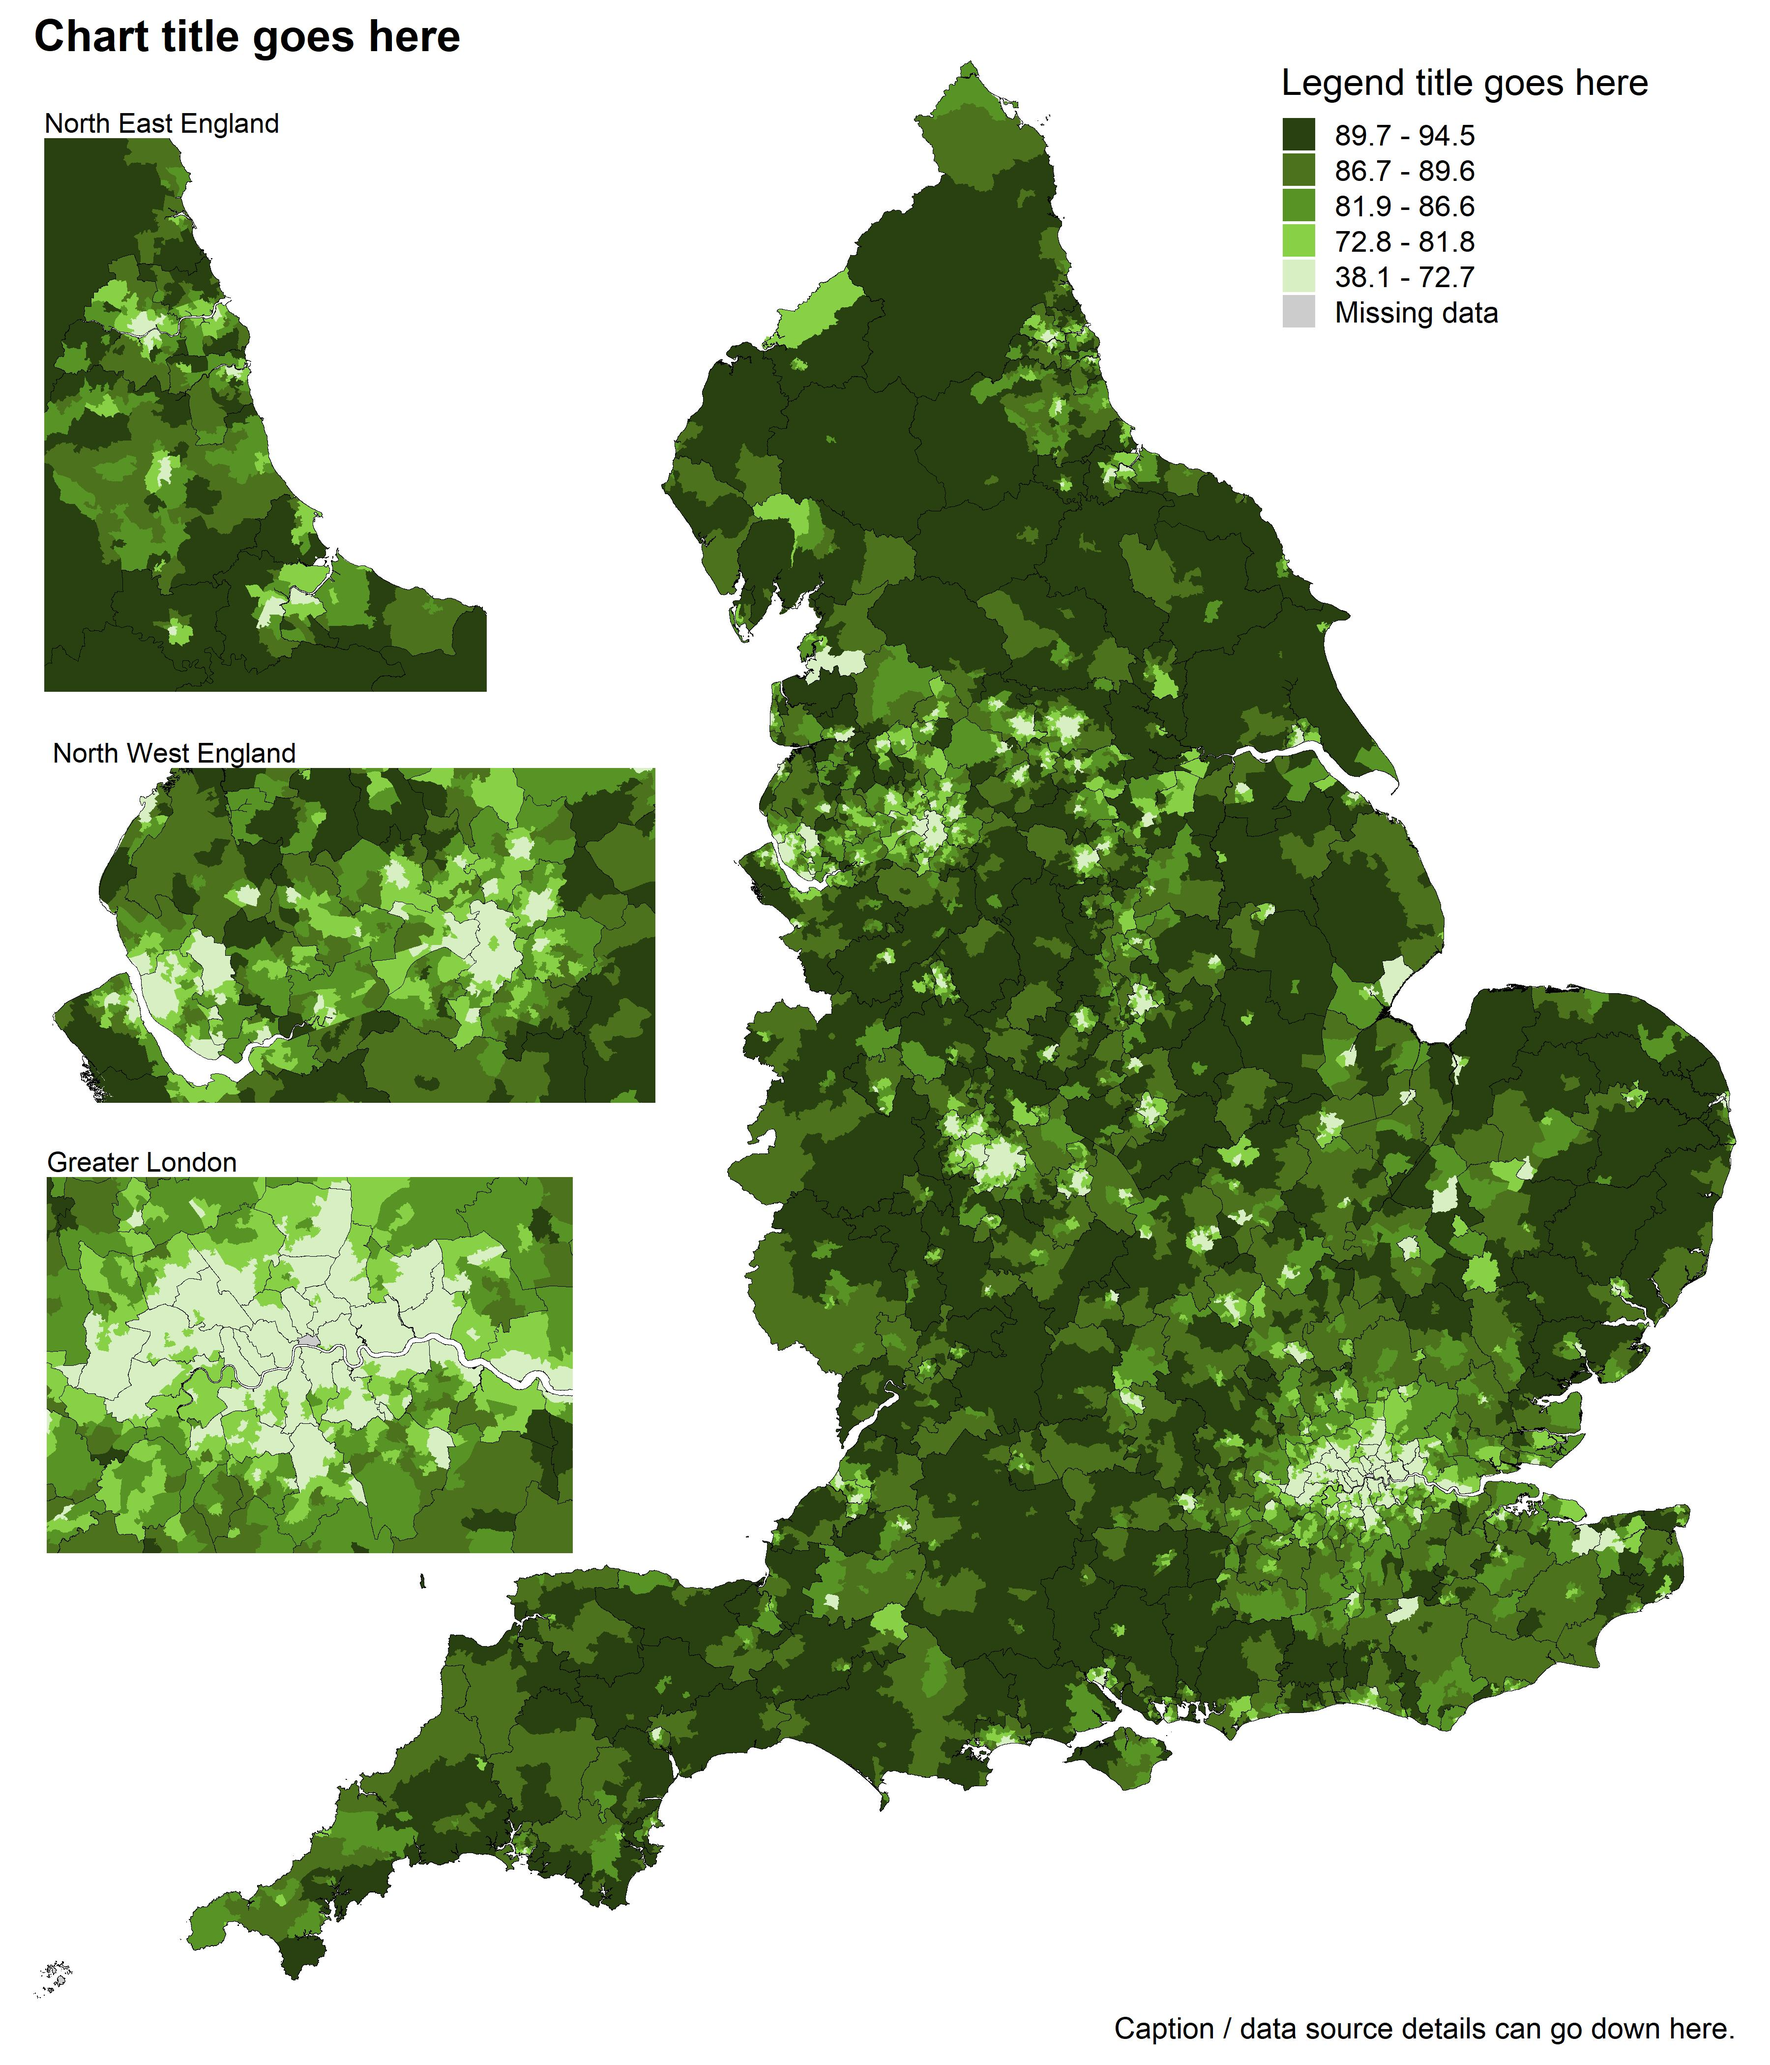
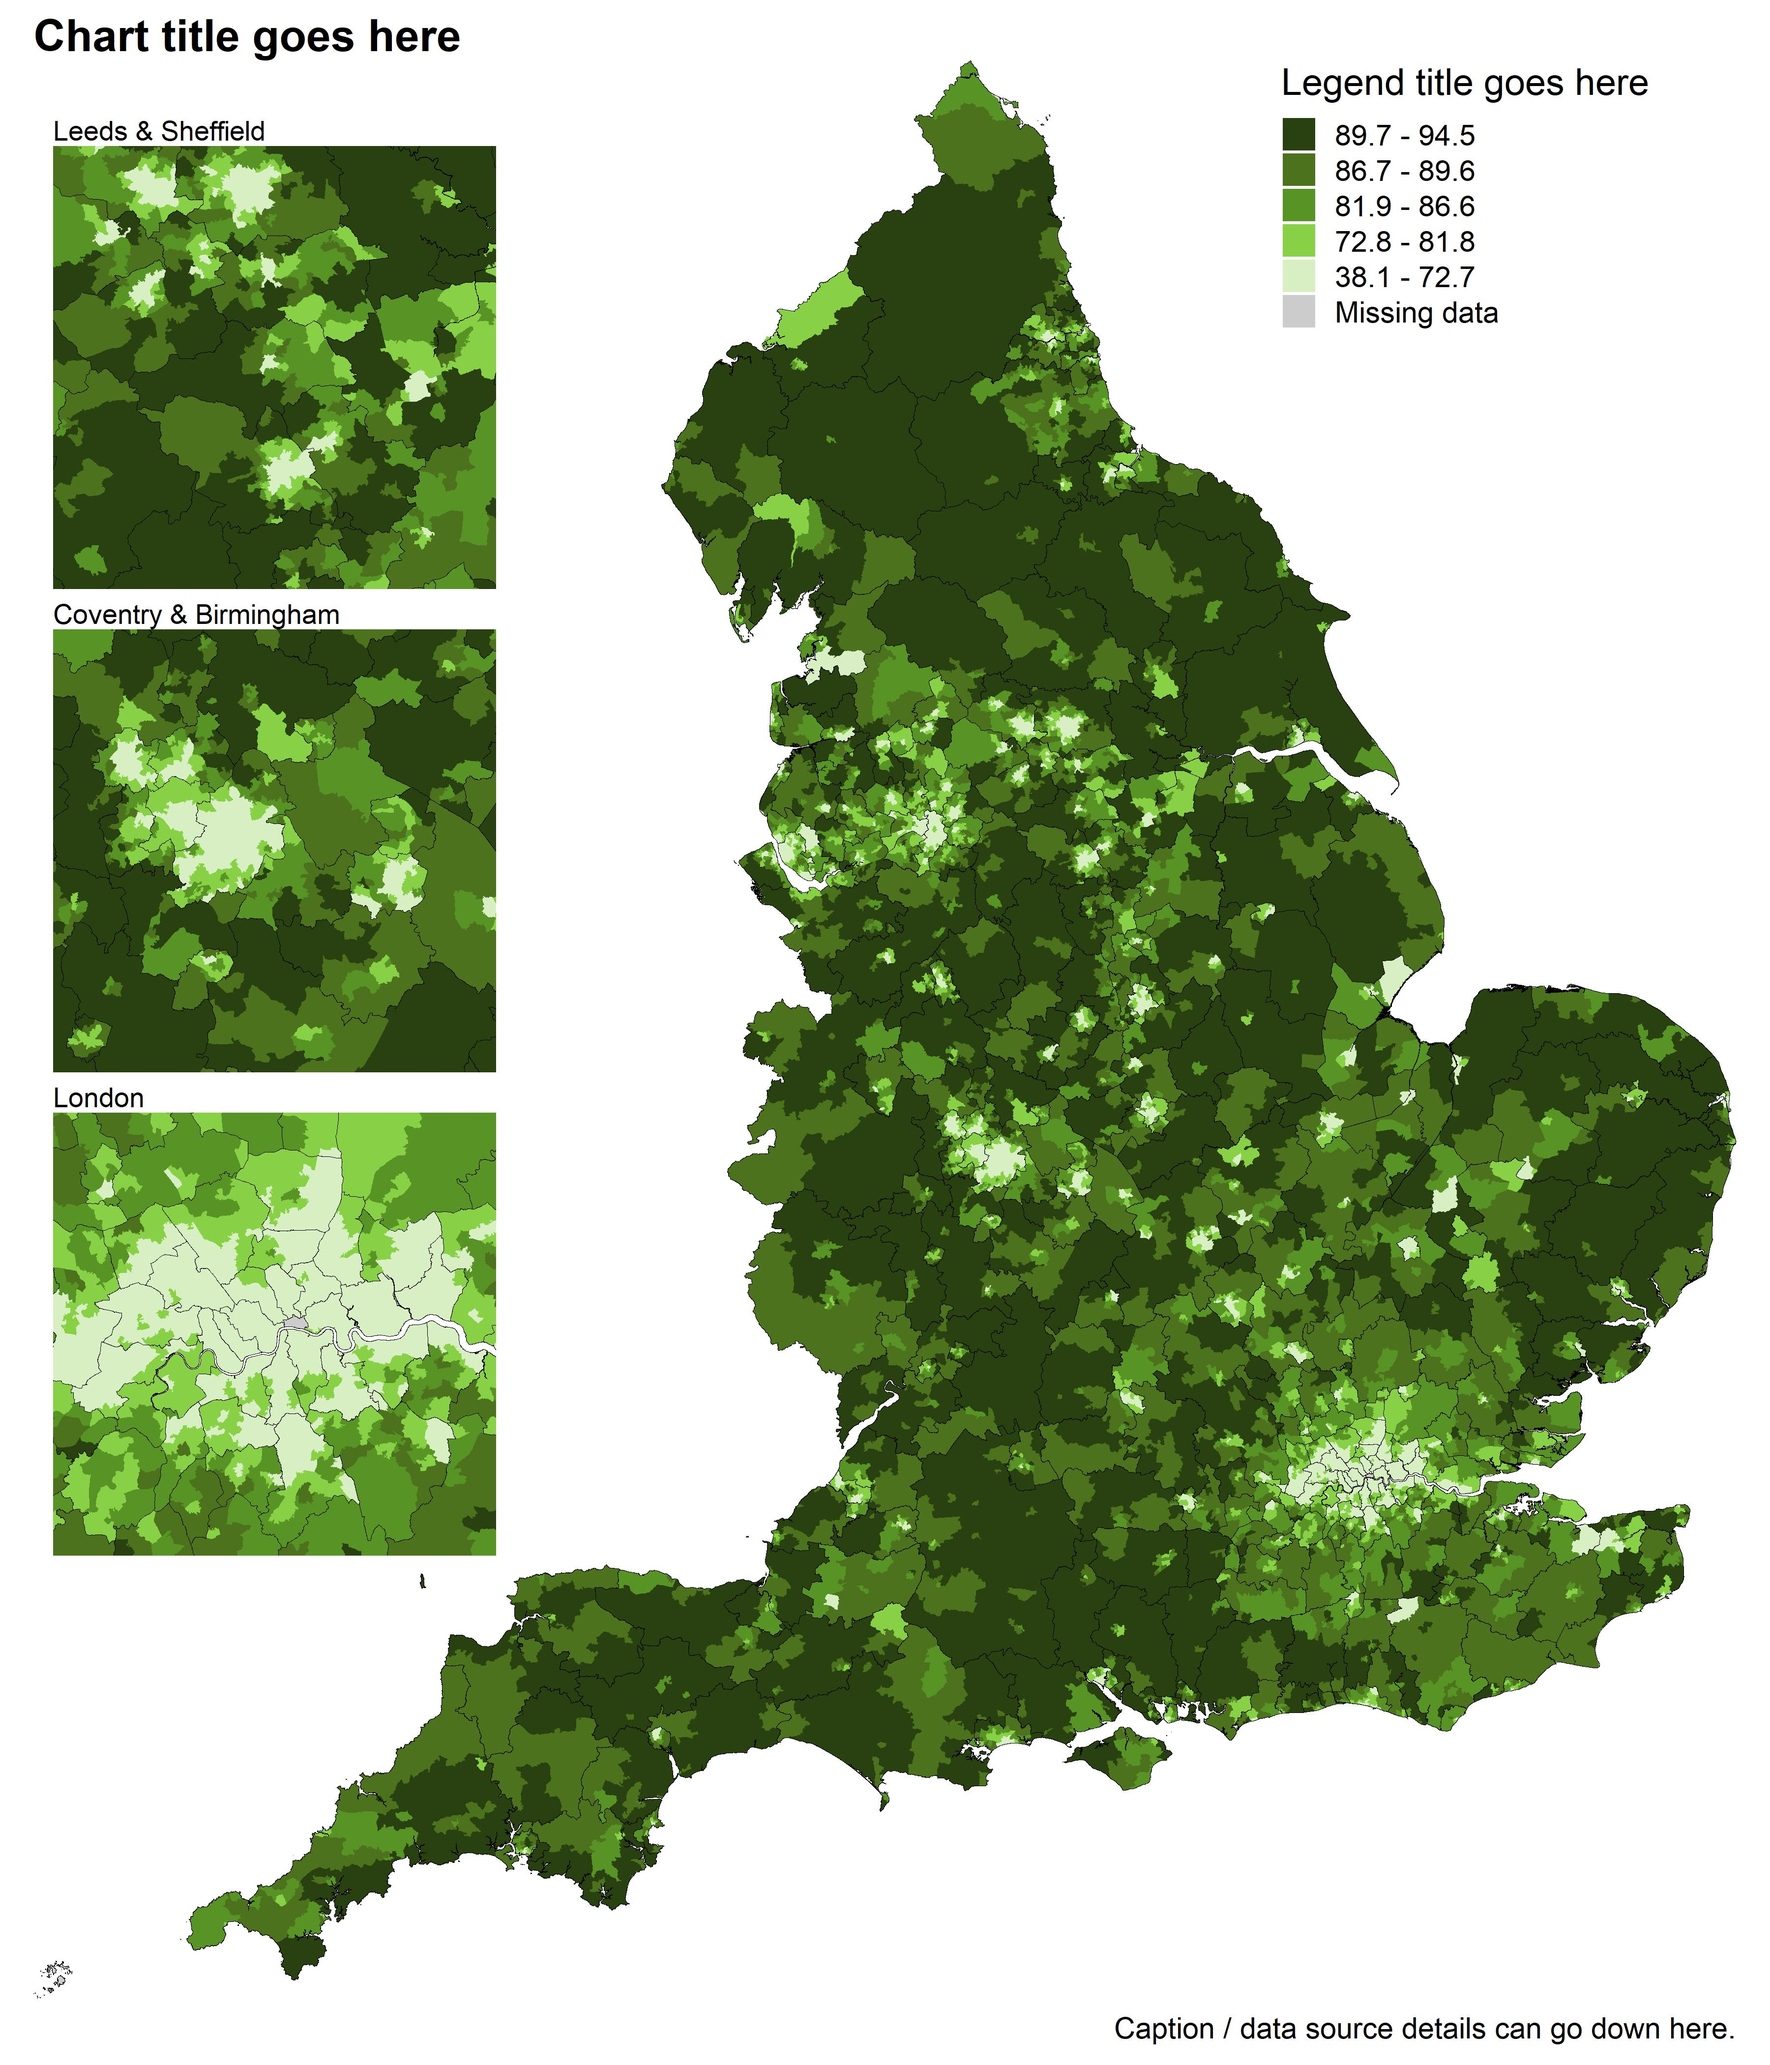
Added more zoomed area functionality

Changed region(s): [[0.0, 0.0312, 0.3733, 0.7798]]

diff --git a/2 - Templates/Choropleth-template.md b/2 - Templates/Choropleth-template.md
@@ -5,8 +5,9 @@ The example code below can be used to create a static choropleth map of
 England, with optional zoomed in areas for London, the north east and
 north west.  
   
-The **\[User\]** flag is used where you may need to edit code, download
-something, or make a choice before running the next code chunk.  
+The :red\_circle: symbol is used where you may need to edit code,
+download something, or make a choice before running the next code
+chunk.  
   
 Firstly, install and the following packages
 
@@ -26,6 +27,7 @@ library(here) # File path referencing
 library(data.table) # Fast reading/writing
 library(janitor) # Rounding
 library(dplyr) # General data manipulation
+library(tidyr) # More general data manipulation
 library(ggplot2) # General plotting
 library(sf) # Geospatial mapping
 library(scales) # Commas for legend
@@ -35,9 +37,9 @@ library(cowplot) # extra plotting functions
 ```
 
   
-**\[User\]** Read in your data to make a tibble called `df_measure` that
-includes the two columns `area_code` and `measure`. In this example I
-take data from an api for coronavirus data.
+:red\_circle: Read in your data to make a tibble called `df_measure`
+that includes the two columns `area_code` and `measure`. In this example
+I take data from an api for coronavirus data.
 
 ``` r
 df_measure <- fread("https://api.coronavirus.data.gov.uk/v2/data?areaType=msoa&metric=cumVaccinationFirstDoseUptakeByVaccinationDatePercentage&format=csv") %>% 
@@ -49,7 +51,7 @@ df_measure <- fread("https://api.coronavirus.data.gov.uk/v2/data?areaType=msoa&m
 ```
 
   
-**\[User\]** Download your own shapefiles from the
+:red\_circle: Download your own shapefiles from the
 [geoportal](https://geoportal.statistics.gov.uk/) and put them into the
 “1 - Data/shapefiles/” folder.  
   
@@ -77,7 +79,7 @@ df_measure_shape <- left_join(shape_one, df_measure, by = "area_code")
 Now we need to make the `fill_grouped` column to split the measure into
 groups for the fill legend…  
   
-**\[User\]** If your measure is continuous or count data, you can use
+:red\_circle: If your measure is continuous or count data, you can use
 the [scale\_gen
 function](https://github.com/DataS-DHSC/geospatial-vis-templates/tree/master/2%20-%20Templates/extra_scripts/scale_gen.R)
 which automatically generate quintiles for the fill legend. Choose the
@@ -99,7 +101,7 @@ levels(df_grouped$fill_grouped)
     ## [6] "Missing data"
 
   
-**\[User\]** If your measure is already grouped into categories, name
+:red\_circle: If your measure is already grouped into categories, name
 the column `fill_grouped`, make sure to fill any NAs in with the text
 “Missing data”, then edit the colours in `fill_palette` below to suit.
 The number of colours must match the number of categories in
@@ -132,11 +134,9 @@ df_grouped %>%
 
     ## `stat_bin()` using `bins = 30`. Pick better value with `binwidth`.
 
-![](Choropleth-template_files/figure-gfm/unnamed-chunk-6-1.png)<!-- -->
-
-  
+![](Choropleth-template_files/figure-gfm/unnamed-chunk-6-1.png)<!-- -->  
 Now it’s time to plot a choropleth map of England.  
-**\[User\]** You can change the text in `labs()`, and the file name in
+:red\_circle: You can change the text in `labs()`, and the file name in
 `ggsave()`.
 
 ``` r
@@ -170,54 +170,44 @@ ggsave(p_map, dpi = 300, width = 12, height = 14, units = "in",
        filename = here("2 - Templates", "output_vis", "choropleth_2area.jpeg"))
 ```
 
-![](output_vis/choropleth_2area.jpeg)
-Include zoomed in areas for Greater London, North West England. and
-North East England. Firstly, here’s a function to create a zoomed in
-area of the map:
+![](output_vis/choropleth_2area.jpeg)  
+We can also include zoomed in areas for locations of interest by using
+the [zoom\_plot
+function](https://github.com/DataS-DHSC/geospatial-vis-templates/tree/master/2%20-%20Templates/extra_scripts/scale_gen.R).
 
 ``` r
-zoom_plot <- function(title_text, x1, x2, y1, y2) {
-  df_map %>% 
-    filter(str_detect(area_code, "^E")) %>% 
-    ggplot() + 
-    geom_sf(aes(geometry = geometry,
-                fill = fill_final),
-            colour = NA) + 
-    geom_sf(data = subset(shape_two, str_detect(area_code, "^E")),
-            aes(geometry = geometry),
-            fill = NA,
-            colour = "black",
-            size = 0.1) +
-    labs(title = title_text) + 
-    fill_scale_final + 
-    xlim(x1, x2) +
-    ylim(y1, y2) +
-    coord_sf(expand = FALSE, 
-             clip = "on") + 
-    theme_void() + 
-    theme(legend.position = "none",
-          plot.margin = margin(0, 0, 0, 0))
-}
+source(here("2 - Templates", "extra_scripts", "zoom_plot.R"))
 ```
 
   
-Now we can add in descriptions and coordinates of the areas of interest.
+Now we can add in locations with coordinates of the areas of interest.
 
 ``` r
-p_nee <- zoom_plot("North East England", 408000, 480000, 505000, 595000)
-p_nwe <- zoom_plot("North West England", 320000, 410000, 375000, 425000)
-p_glondon <- zoom_plot("Greater London", 500000, 565000, 155000, 201500)
+locations <- tibble(
+  `London` =  c(505000, 555000, 155000, 205000),
+  `Liverpool & Manchester` = c(320000, 410000, 375000, 425000),
+  `Leeds & Sheffield` = c(400000, 470000, 370000, 440000),
+  `Coventry & Birmingham` = c(380000, 450000, 250000, 320000),
+  `Cambridge` = c(500000, 570000, 220000, 290000),
+  `Oxford` = c(420000, 490000, 170000, 240000),
+  `Bristol` = c(310000, 380000, 140000, 210000)
+  )
+
+p_top <- zoom_plot("Leeds & Sheffield", locations$`Leeds & Sheffield`)
+p_middle <- zoom_plot("Coventry & Birmingham", locations$`Coventry & Birmingham`)
+p_bottom <- zoom_plot("London", locations$`London`)
 ```
 
   
-Finally, we use cowplot to plot the different areas together.
+Finally, we can plot the different areas together.  
+:red\_circle: Again, you can change the file name in `ggsave()`.
 
 ``` r
 p_map_zoom <- ggdraw() + 
   draw_plot(p_map, 0, 0, 1, 1) + 
-  draw_plot(p_nee, 0.025, 0.608, 0.25, 0.4) + 
-  draw_plot(p_nwe, 0.025, 0.466, 0.35, 0.18) + 
-  draw_plot(p_glondon, 0.025, 0.248, 0.30, 0.20)
+  draw_plot(p_top, 0.03, 0.331, 0.25) + 
+  draw_plot(p_middle, 0.03, 0.097, 0.25) + 
+  draw_plot(p_bottom, 0.03, -0.137, 0.25)
 
 ggsave(p_map_zoom, dpi = 300, width = 12, height = 14, units = "in",
        filename = here("2 - Templates", "output_vis", "choropleth_2area_zoom.jpeg"))
